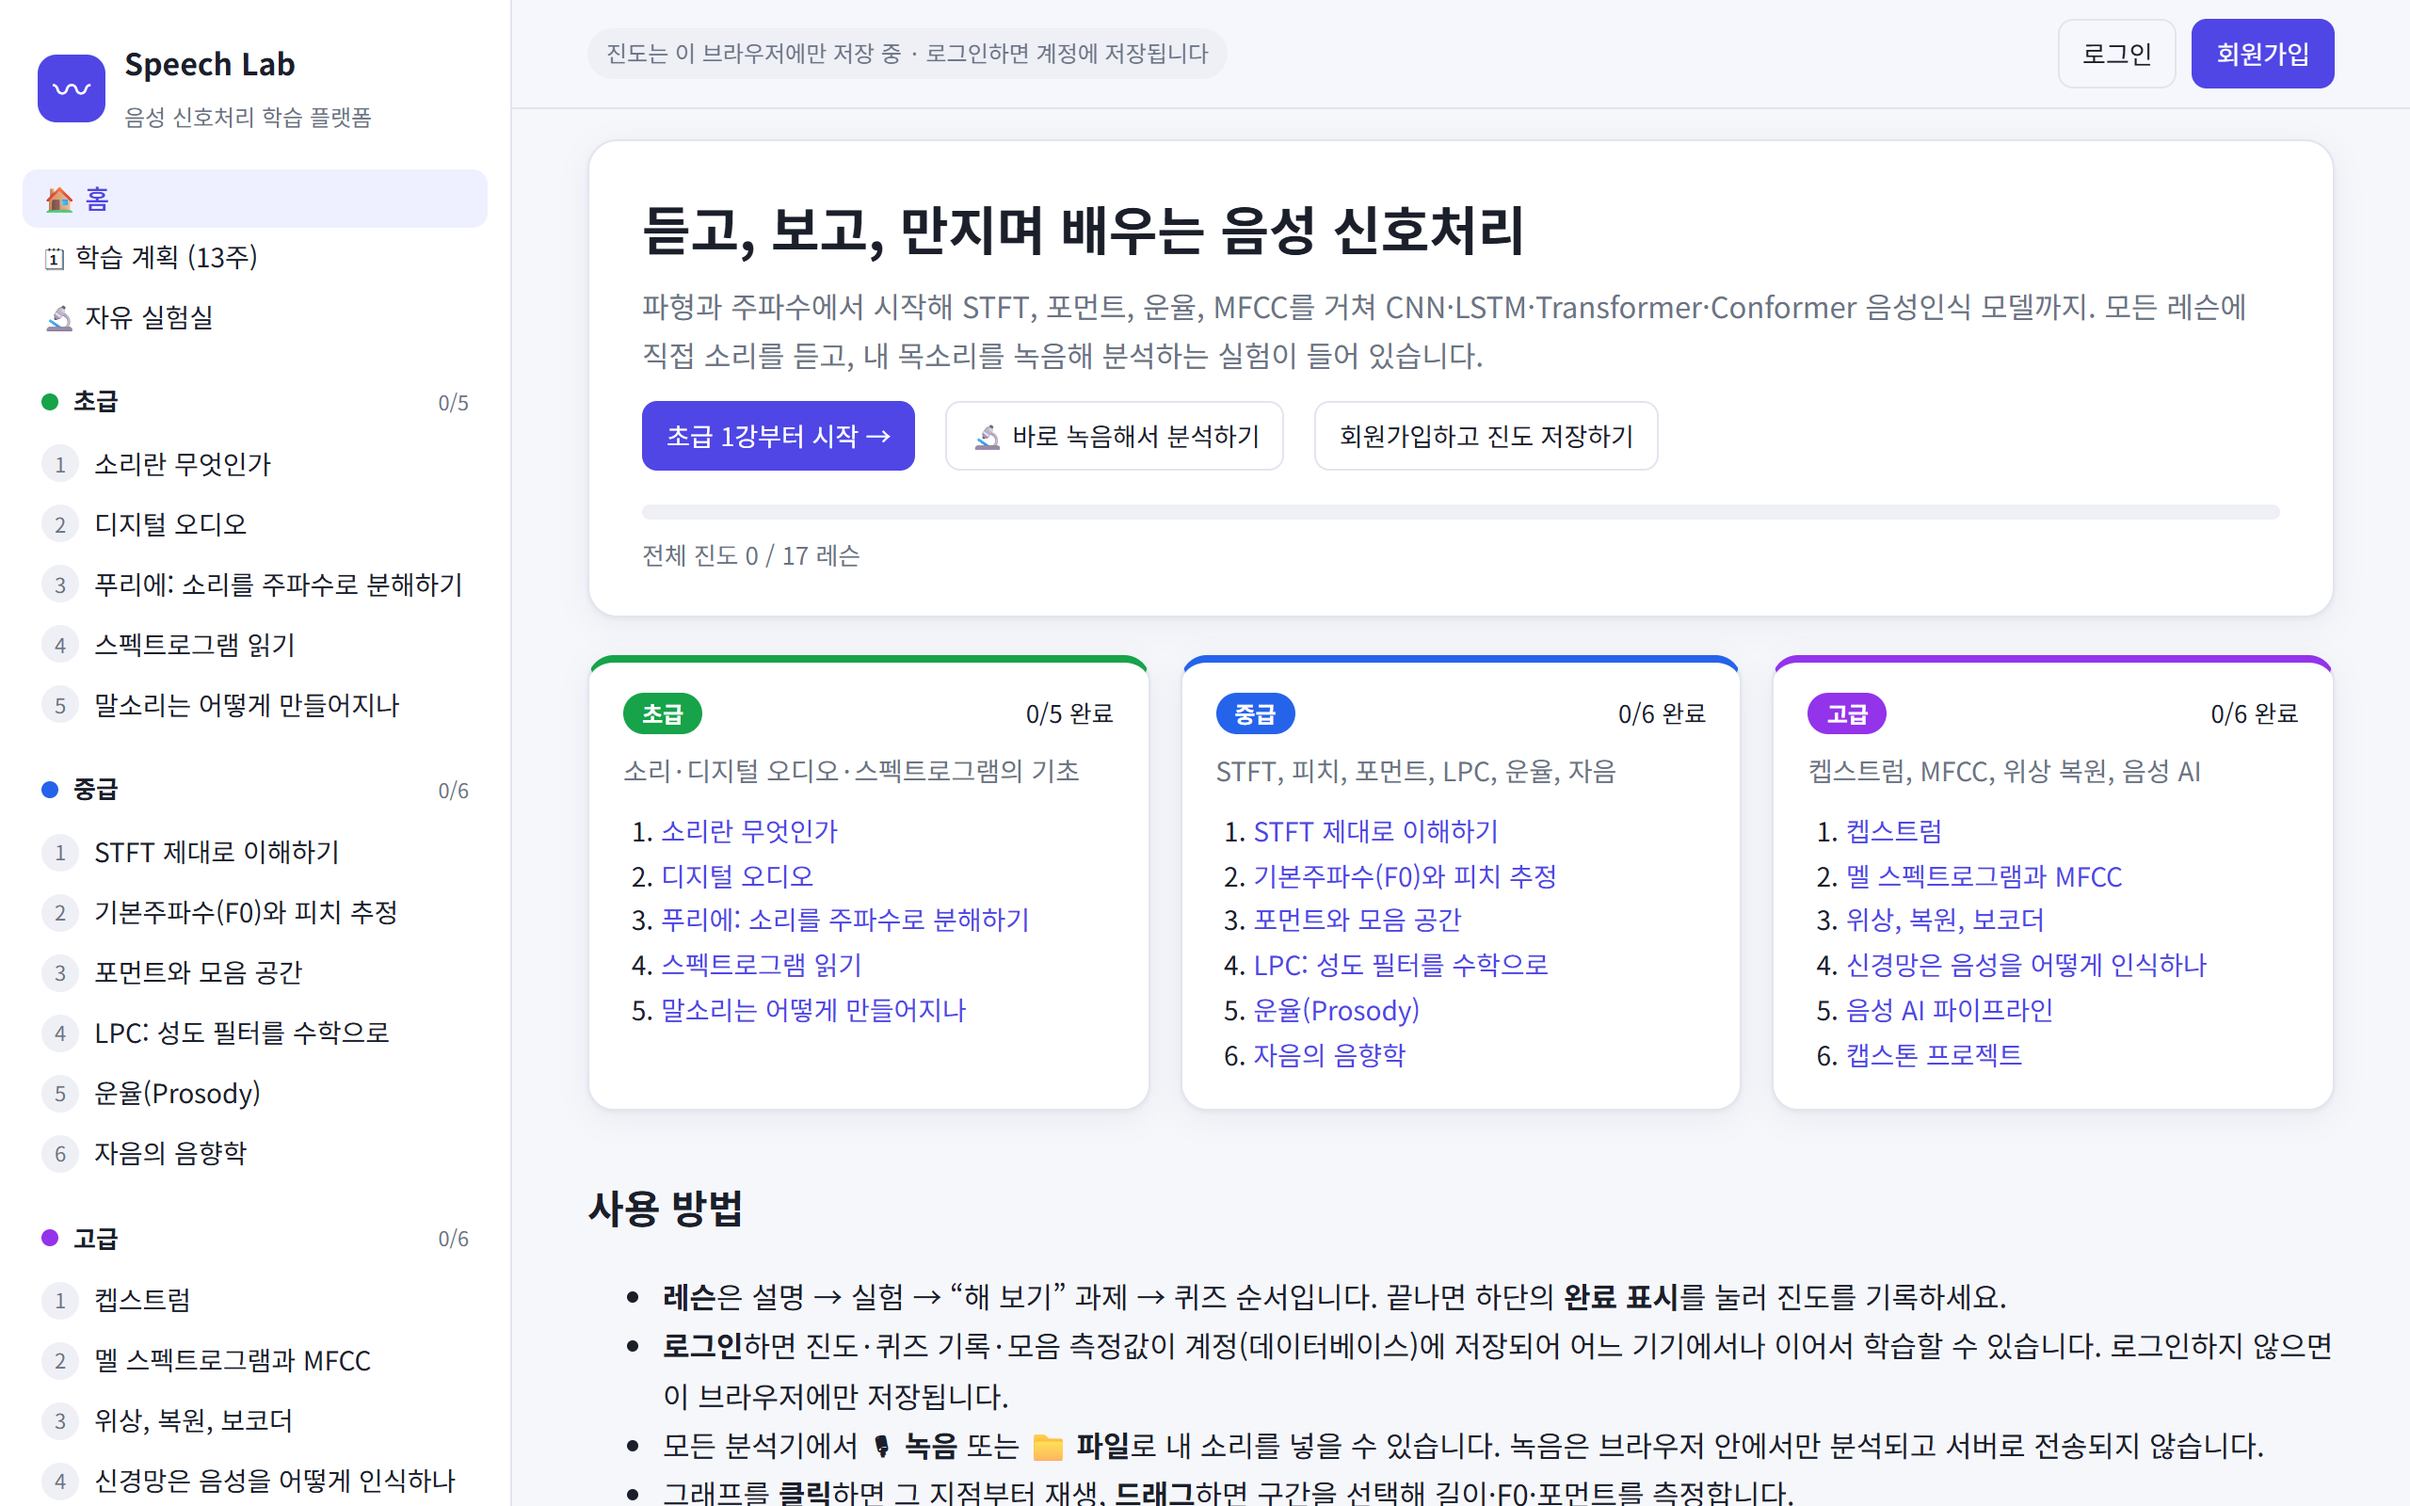
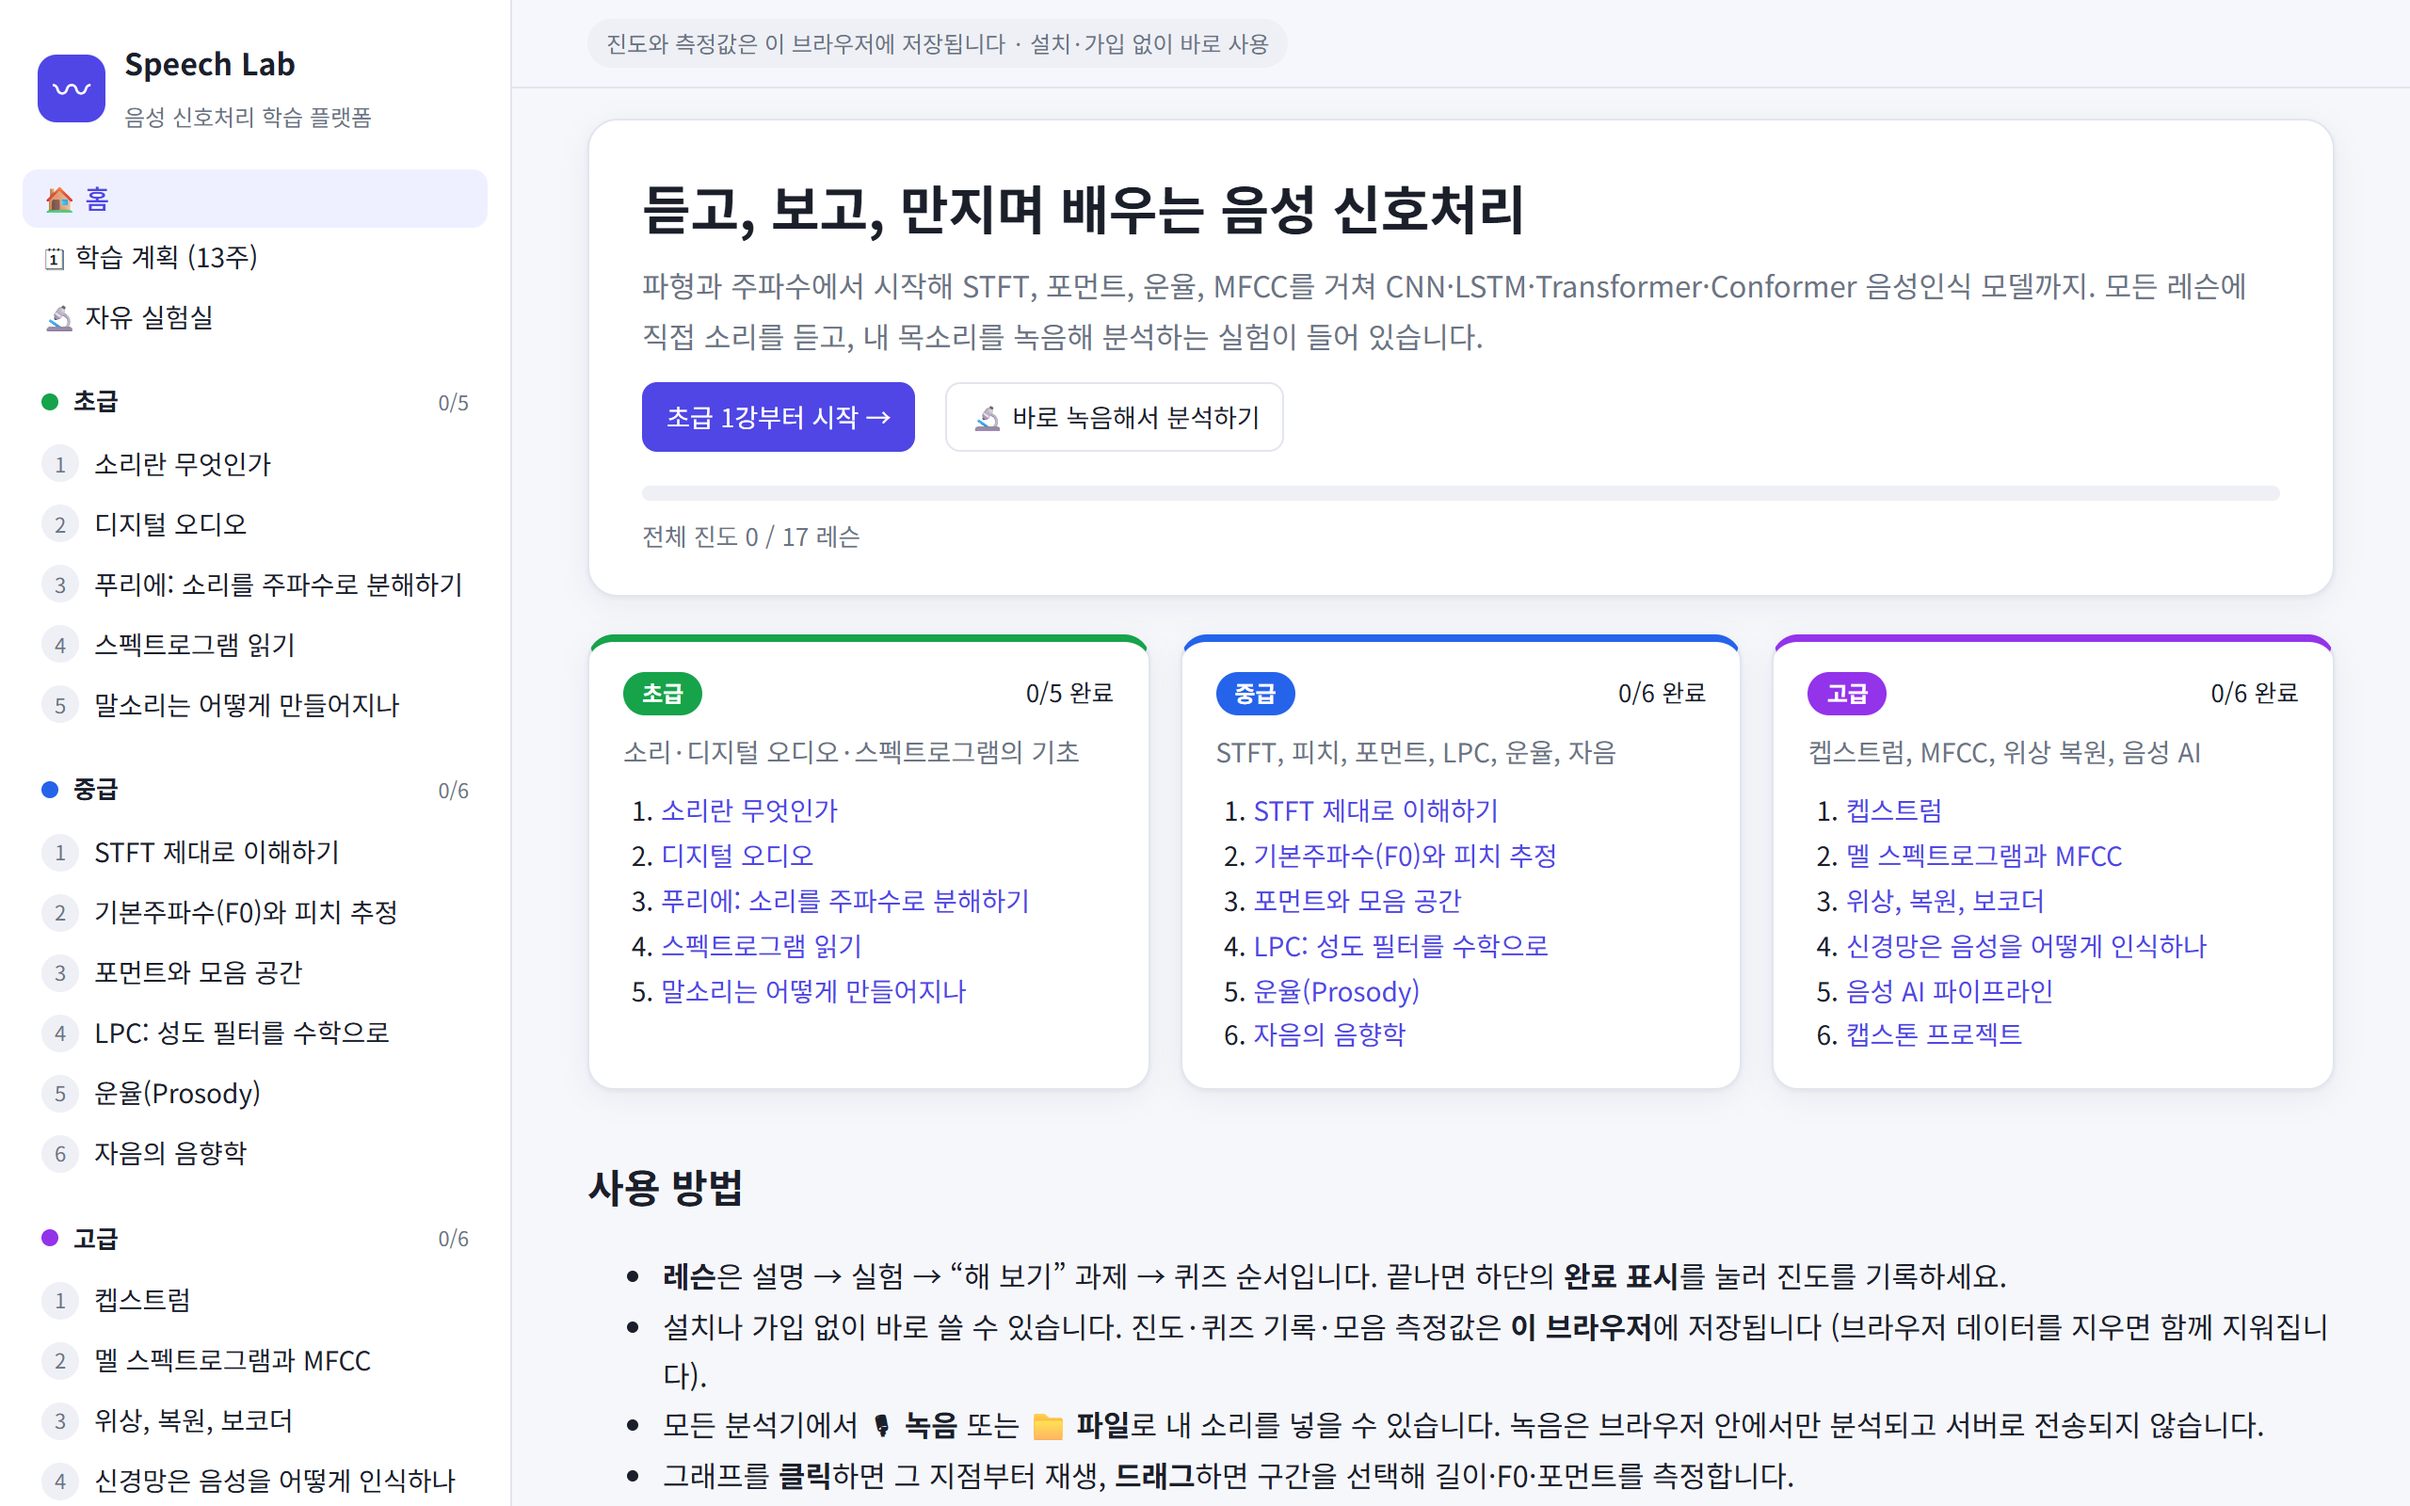
사이트 링크 연결, 정적 사이트 기준으로 소개·화면 갱신

diff --git a/README.md b/README.md
@@ -7,15 +7,14 @@
 파형과 주파수에서 시작해 STFT · 포먼트 · 운율 · MFCC를 거쳐<br>
 CNN · LSTM · Transformer · Conformer 음성인식 모델까지
 
-<!-- 배포 후 아래 주소를 실제 사이트 주소로 바꾸세요 -->
-**[▶ 사이트 바로가기](https://YOUR-SITE.onrender.com)**
+### **[▶ 사이트 바로가기](https://choiyoonsou.github.io/speech-lab-showcase/)**
+설치·가입 없이 브라우저에서 바로 사용 (Chrome · Edge 권장)
 
 ![React](https://img.shields.io/badge/React-18-61DAFB?logo=react&logoColor=white)
 ![TypeScript](https://img.shields.io/badge/TypeScript-5-3178C6?logo=typescript&logoColor=white)
 ![Vite](https://img.shields.io/badge/Vite-5-646CFF?logo=vite&logoColor=white)
-![Django](https://img.shields.io/badge/Django-5.2-092E20?logo=django&logoColor=white)
-![PostgreSQL](https://img.shields.io/badge/PostgreSQL-16-4169E1?logo=postgresql&logoColor=white)
-![Docker](https://img.shields.io/badge/Docker-2496ED?logo=docker&logoColor=white)
+![Web Audio](https://img.shields.io/badge/Web%20Audio%20API-FF6F00)
+![GitHub Pages](https://img.shields.io/badge/GitHub%20Pages-222222?logo=githubpages&logoColor=white)
 
 </div>
 
@@ -30,8 +29,8 @@ CNN · LSTM · Transformer · Conformer 음성인식 모델까지
 - 🎙 **내 목소리로 실습** — 녹음하거나 파일을 열면 스펙트로그램 · 피치 · 포먼트 · 강도를 바로 분석
 - 🔬 **13가지 실험 도구** — 모음 합성기, STFT 탐색기, LPC, VOT, MFCC, Griffin-Lim, 신경망 시각화 등
 - 🗓 **13주 학습 계획** — 주차별 레슨과 Praat · Python 실습 과제
-- 👤 **회원 기능** — 가입하면 진도 · 퀴즈 기록 · 모음 측정값이 저장되어 어느 기기에서나 이어서 학습
-- 🔒 **개인정보 보호** — 녹음한 소리는 브라우저 안에서만 분석되고 서버로 전송되지 않음
+- 💾 **진도 저장** — 완료한 레슨 · 퀴즈 기록 · 모음 측정값이 브라우저에 저장되어 다음에 이어서 학습
+- 🔒 **개인정보 보호** — 모든 분석이 브라우저 안에서 이루어지며, 녹음한 소리는 어디로도 전송되지 않음
 
 ## 화면
 
@@ -57,11 +56,9 @@ CNN · LSTM · Transformer · Conformer 음성인식 모델까지
 |---|---|
 | ![CNN](docs/screenshots/cnn.png) | ![Attention](docs/screenshots/attention.png) |
 
-### 레슨 · 회원가입 · 학습 현황
+### 레슨 화면
 
-| 레슨 | 회원가입 | 내 계정 |
-|---|---|---|
-| ![레슨](docs/screenshots/lesson.png) | ![회원가입](docs/screenshots/signup.png) | ![내 계정](docs/screenshots/account.png) |
+![레슨](docs/screenshots/lesson.png)
 
 ## 커리큘럼
 
@@ -77,9 +74,7 @@ CNN · LSTM · Transformer · Conformer 음성인식 모델까지
 |---|---|
 | 프론트엔드 | React 18, TypeScript, Vite, React Router |
 | 신호처리 | FFT, STFT, 자기상관 피치 추정, LPC 포먼트 분석, 멜 필터뱅크 · MFCC, 켑스트럼, Griffin-Lim — 외부 라이브러리 없이 직접 구현해 브라우저에서 실행 |
-| 백엔드 | Django, Django REST Framework, 세션 인증 + CSRF 보호 |
-| 데이터베이스 | PostgreSQL |
-| 배포 | Docker, Render |
+| 배포 | GitHub Pages (서버 없이 동작하는 정적 사이트) |
 
 ---
 
